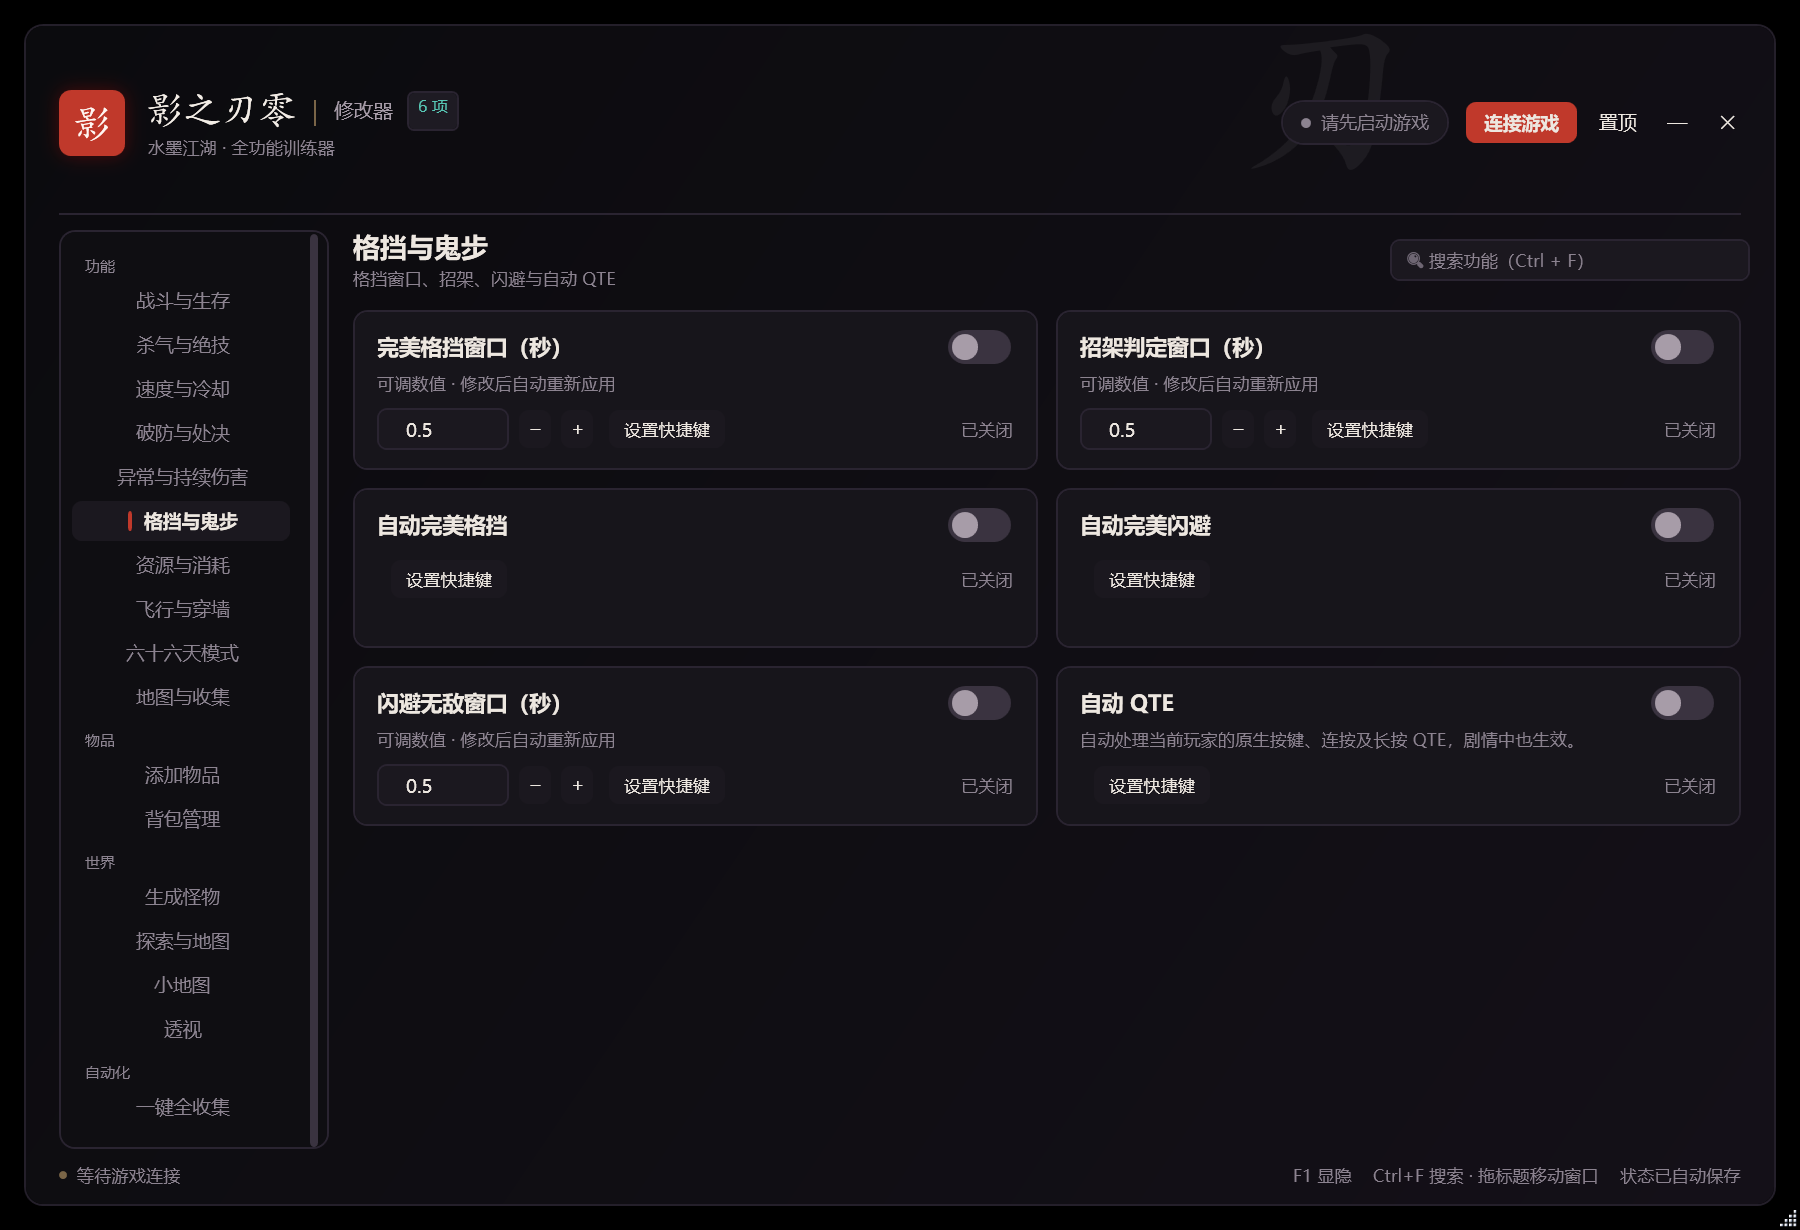
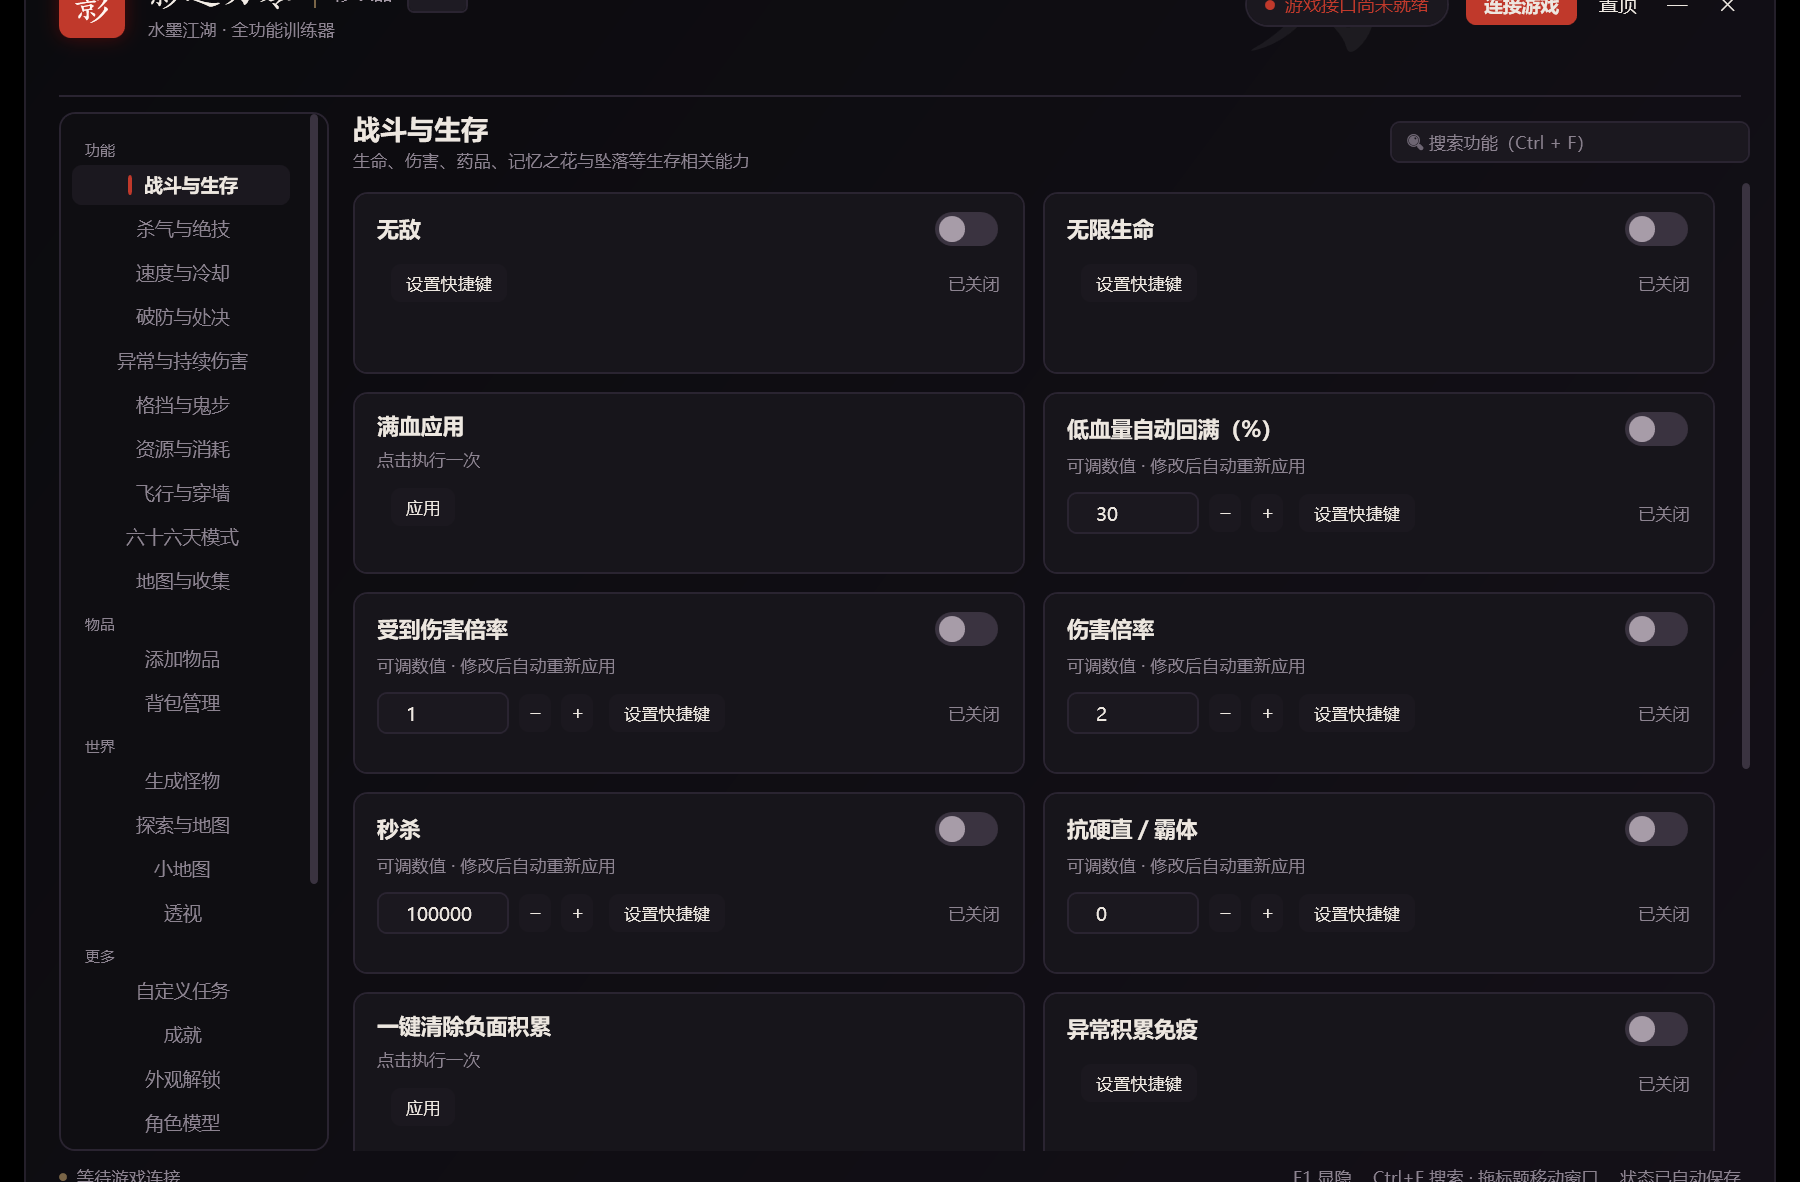
默认管理员启动；生成页助战可关闭；招式页空目录自动重试
- app.manifest: asInvoker -> requireAdministrator，启动即提权，兼容游戏以任意权限运行
- 生成怪物：助战预设改为开关（再点一次全部关闭），并在页内检测「秒杀 / 伤害倍率」是否开着给出提示（这两项开着生成的敌人会一击即死）
- BOSS 招式：目录为空时自动重试 3 次，提示需要首领战中锁定首领
- README：重写开头（含管理员启动说明）、补生成怪物说明；assets/screenshot.png 换成新版界面截图

diff --git a/src/PBZTrainer/Views/CatalogView.cs b/src/PBZTrainer/Views/CatalogView.cs
@@ -78,7 +78,9 @@ namespace PBZTrainer.Views
         private readonly Button _back;
         private readonly Button _assist;
         private readonly TextBlock _warn = Ui.Sub("");
+        private readonly TextBlock _status2 = Ui.Sub("");
         private StackPanel _extraRow;
+        private bool _assistOn;
 
         private CatalogRow _selected;
         private double[] _savedPosition;
@@ -280,6 +282,9 @@ namespace PBZTrainer.Views
                 _warn.Margin = new Thickness(0, 8, 0, 0);
                 _warn.TextWrapping = TextWrapping.Wrap;
                 stack.Children.Add(_warn);
+                _status2.Margin = new Thickness(0, 4, 0, 0);
+                _status2.TextWrapping = TextWrapping.Wrap;
+                stack.Children.Add(_status2);
             }
             stack.Children.Add(_owned);
             stack.Children.Add(new Border { Height = 1, Background = Ui.Brush("Divider"), Margin = new Thickness(0, 10, 0, 8) });
@@ -351,7 +356,7 @@ namespace PBZTrainer.Views
                     }
                 }
 
-                RebuildCategories();
+                if (_mode == CatalogMode.Spawn || _mode == CatalogMode.Revive) _ = SyncAssistStateAsync();
                 ApplyFilter();
                 _count.Text = $"{_all.Count} 项";
                 Ui.Log(_log, $"已读取目录：{_all.Count} 项");
@@ -515,41 +520,87 @@ namespace PBZTrainer.Views
             Ui.Log(_log, "生成仍在处理中，请先核对场景，勿重复提交");
         }
 
-        /// <summary>打 BOSS 用的一组功能（伤害/破防/生存），避免生成的敌人打不动或反被秒。</summary>
+        private static readonly (string Id, string Name, double Value)[] AssistPreset =
+        {
+            ("damage", "伤害倍率", 5),
+            ("one_hit", "秒杀", 100000),
+            ("fast_break", "快速破防", 100000),
+            ("never_break", "玩家不被破防", 1),
+            ("auto_deflect", "自动完美格挡", 1),
+            ("auto_qte", "自动 QTE", 1)
+        };
+
+        /// <summary>打 BOSS 用的一组功能；再点一次会全部关掉（秒杀开着时生成的怪会一击即死）。</summary>
         private async Task AssistAsync()
         {
             if (!_bridge.IsConnected) { Ui.Log(_log, "请先连接游戏"); return; }
-            var preset = new (string Id, string Name, double Value)[]
-            {
-                ("damage", "伤害倍率", 5),
-                ("one_hit", "秒杀", 100000),
-                ("fast_break", "快速破防", 100000),
-                ("never_break", "玩家不被破防", 1),
-                ("auto_deflect", "自动完美格挡", 1),
-                ("auto_qte", "自动 QTE", 1)
-            };
+            bool enable = !_assistOn;
 
             _assist.IsEnabled = false;
             try
             {
-                Ui.Log(_log, "开启助战预设…");
-                foreach (var (id, name, value) in preset)
+                Ui.Log(_log, enable ? "开启助战预设…" : "关闭助战预设…");
+                foreach (var (id, name, value) in AssistPreset)
                 {
                     try
                     {
-                        var r = await _bridge.FeatureAsync(id, true, value);
-                        Ui.Log(_log, (r != null && r.Flag("ok") ? "✔ " : "✘ ") + name + "　" + (r?.Str("message") ?? ""));
+                        var r = await _bridge.FeatureAsync(id, enable, enable ? value : 0);
+                        Ui.Log(_log, (r != null && r.Flag("ok") ? "✔ " : "✘ ") + name + (enable ? " 开" : " 关") +
+                                      (string.IsNullOrEmpty(r?.Str("message")) ? "" : "　" + r.Str("message")));
                     }
                     catch (Exception ex)
                     {
                         Ui.Log(_log, "✘ " + name + "：" + ex.Message);
                     }
                 }
-                Ui.Log(_log, "助战已开启；仍打不动说明该首领需要阶段/剧情推进，建议换普通敌人或用「传回记录点」脱战。");
+
+                _assistOn = enable;
+                _assist.Content = enable ? "关闭助战预设" : "开启助战预设";
+                RefreshAssistHint();
+                Ui.Log(_log, enable
+                    ? "助战已开启：注意「秒杀 / 伤害倍率」会让生成的敌人一击即死。"
+                    : "助战已关闭：伤害与破防恢复原样，生成的敌人可以正常打。");
             }
             finally
             {
                 _assist.IsEnabled = true;
+            }
+        }
+
+        /// <summary>读一次能力列表，判断秒杀 / 伤害倍率是否开着，用来提示与按钮文案。</summary>
+        private async Task SyncAssistStateAsync()
+        {
+            try
+            {
+                var caps = await _bridge.CapabilitiesAsync();
+                var feats = caps?["features"] as JsonArray;
+                if (feats == null) return;
+                bool oneHit = false, dmg = false;
+                foreach (var f in feats.OfType<JsonObject>())
+                {
+                    string id = f.Str("id") ?? "";
+                    if (!f.Flag("enabled")) continue;
+                    if (id == "one_hit") oneHit = true;
+                    if (id == "damage") dmg = true;
+                }
+                _assistOn = oneHit || dmg;
+                _assist.Content = _assistOn ? "关闭助战预设" : "开启助战预设";
+                RefreshAssistHint();
+            }
+            catch { }
+        }
+
+        private void RefreshAssistHint()
+        {
+            if (_mode != CatalogMode.Spawn && _mode != CatalogMode.Revive) return;
+            if (_assistOn)
+            {
+                _status2.Text = "⚠ 当前「秒杀 / 伤害倍率」是开着的，生成的敌人会一击即死；点「关闭助战预设」可还原。";
+                _status2.Foreground = Ui.Brush("Warn");
+            }
+            else
+            {
+                _status2.Text = "";
             }
         }
 

diff --git a/src/PBZTrainer/Views/ActionListView.cs b/src/PBZTrainer/Views/ActionListView.cs
@@ -33,6 +33,8 @@ namespace PBZTrainer.Views
         public Func<JsonObject, string> StateReader;
         /// <summary>可选：不用游戏目录，直接给一份本地数据（例如内置属性表）。</summary>
         public Func<List<CatalogRow>> LocalRows;
+        /// <summary>目录为空时自动重试几次（例如首领招式需要锁定首领）。</summary>
+        public int RetryWhenEmpty;
     }
 
     /// <summary>通用动作页：左侧目录列表，右侧详情 + 操作按钮 + 日志。</summary>
@@ -64,6 +66,7 @@ namespace PBZTrainer.Views
         private readonly Button _primary;
         private readonly Button _secondary;
         private CatalogRow _selected;
+        private int _retries;
 
         public ActionListView(BridgeClient bridge, ActionSpec spec)
         {
@@ -234,6 +237,18 @@ namespace PBZTrainer.Views
                     }
                 }
                 ApplyFilter();
+
+                if (_all.Count == 0 && _spec.RetryWhenEmpty > _retries)
+                {
+                    _retries++;
+                    _count.Text = $"目录为空，正在重试（{_retries}/{_spec.RetryWhenEmpty}）…";
+                    await Task.Delay(2500);
+                    await LoadAsync();
+                }
+                else
+                {
+                    _retries = 0;
+                }
             }
             catch (Exception ex)
             {

diff --git a/src/PBZTrainer/Views/MainWindow.xaml.cs b/src/PBZTrainer/Views/MainWindow.xaml.cs
@@ -579,7 +579,8 @@ namespace PBZTrainer.Views
                     Subtitle = "让角色播放首领招式（观赏 / 截图用），会覆盖当前动作。",
                     LoadType = "boss_moves",
                     StateHeader = "类型",
-                    EmptyHint = "招式目录为空：先锁定一个首领（进入首领战）再点刷新",
+                    RetryWhenEmpty = 3,
+                    EmptyHint = "招式目录为空：需要在首领战中锁定首领才会出现，进入战斗后会自动重试",
                     PrimaryLabel = "播放招式",
                     Primary = (b, r, v) => b.BossMoveAsync(r.Id)
                 }),

diff --git a/src/PBZTrainer/Services/BridgeCommands.cs b/src/PBZTrainer/Services/BridgeCommands.cs
@@ -19,6 +19,9 @@ namespace PBZTrainer.Services
                 ["value"] = value
             }, ct, 20000);
 
+        public Task<JsonObject> CapabilitiesAsync(CancellationToken ct = default)
+            => RequestAsync(new JsonObject { ["command"] = "capabilities" }, ct, 20000);
+
         // ---------- 目录 ----------
 
         public Task<JsonObject> CatalogAsync(string type, CancellationToken ct = default)

diff --git a/README.md b/README.md
@@ -1,8 +1,9 @@
 # 影之刃零 修改器（Phantom Blade Zero Trainer）
 
-《影之刃零 / Phantom Blade Zero》单人模式的外部修改器，C# / WPF 实现，水墨暗色 + 朱砂红的界面。
+《影之刃零 / Phantom Blade Zero》单人模式的外部修改器，C# / WPF 实现，水墨暗色 + 朱砂红界面。
 
-**76 项功能开关 + 2400 余条可操作条目**：10 个功能分类、14 个工具页、2 个游戏内悬浮层。
+**76 项功能开关 + 3000 余条可操作条目**：10 个功能分类、14 个工具页、2 个游戏内悬浮层。
+**默认以管理员权限启动**，游戏无论用普通权限还是管理员权限打开都能连上；启动时系统会弹一次 UAC，点「是」即可。
 
 ![截图](assets/screenshot.png)
 
@@ -42,7 +43,7 @@
 |---|---|---|
 | 添加物品 | 880+ 项 | 按名称 / 分类 / 代号搜索，指定数量添加（1~9999），显示已持有数 |
 | 背包管理 | 550+ 项 | 改持有数量、删除整条记录（带确认，不可撤销） |
-| 生成怪物 | 177 种 | 数量 1~10、距离、敌 / 友军，按原生流程生成并回报状态 |
+| 生成怪物 | 177 种 | 数量 1~10、距离、敌 / 友军；带「助战预设」开关（开着一击即死，关掉恢复正常） |
 | 探索与地图 | 179 处 | 一键前往；也可记录当前位置随时传回 |
 | 一键全收集 | 687 项 | 九类收集 538、所有任务 74、BOSS 战绩 75，外加地图探索；只补缺失项、逐项回读、结束给结果弹窗 |
 
@@ -71,7 +72,7 @@
 ## 快速开始
 
 1. 先启动游戏，进入存档、能自由行动。
-2. 双击 `PBZTrainer.exe`，等右上角变成「● 游戏已就绪」。
+2. 双击 `PBZTrainer.exe`（会弹一次 UAC，点「是」），等右上角变成「● 游戏已就绪」。
 3. 左侧选分类 → 右侧拨开关；工具页在「物品 / 世界 / 更多 / 自动化」四组里（任务、成就、外观、模型、技能、招式、资源都在「更多」）。
 
 快捷键：`F1` 显示隐藏窗口、`Ctrl+F` 搜索；每张功能卡都能绑全局热键（游戏在前台也生效）。
